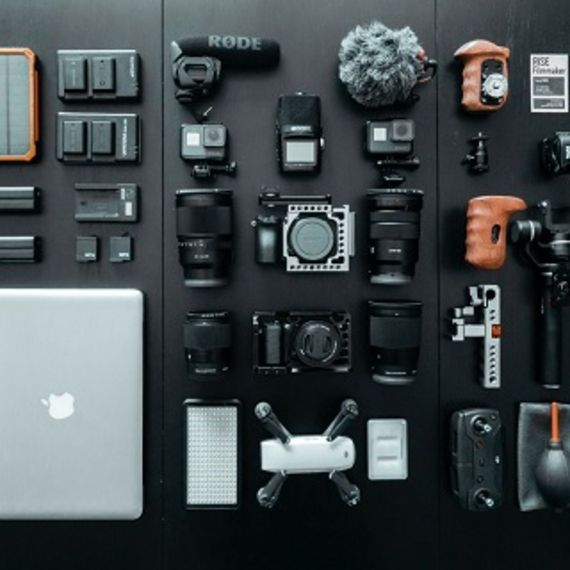
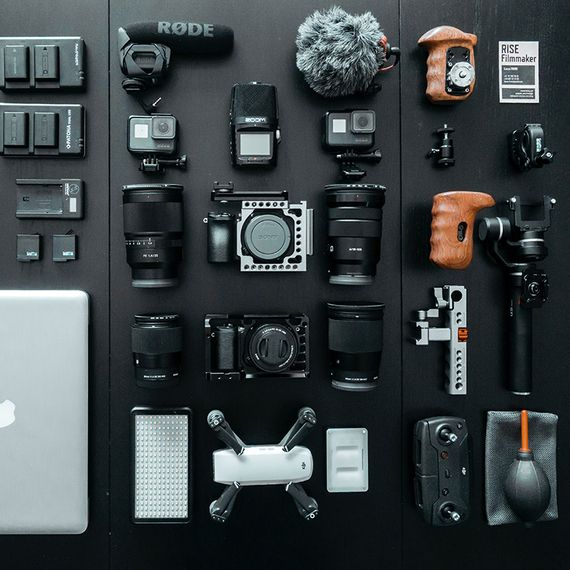
Image responsive ok pour 'design-voyageur'

diff --git a/index.html b/index.html
@@ -289,10 +289,52 @@
 				</div>
 				<div class="row tight-width-whitespace portfolio-row">
 					<div class="col-sm-6">
-						<a class="seo-focus-type3" href="#" data-lightbox="img/design-voyageur.jpg"
+						<a class="seo-focus-type3 portfolio-thumb" href="#" data-lightbox="img/design-voyageur.jpg"
 							data-gallery-id="gallery-1" data-caption="Création d'un site internet pour un voyageur"
-							data-frame="snapshot-lb"><img src="img/design-voyageur.jpg"
-								class="img-responsive portfolio-thumb" alt="Accès au portfolio des réalisations"></a>
+							data-frame="snapshot-lb">
+							
+
+							<picture>
+								<source class="img-responsive" 
+										type="image/webp" 
+										media="(max-width: 320px)"
+										srcset="img/design-voyageur-290w.webp">
+
+								<source class="img-responsive" 
+										type="image/webp"
+										media="(max-width: 375px)" 
+										srcset="img/design-voyageur-345w.webp">
+
+								<source class="img-responsive" 
+										type="image/webp" 
+										media="(max-width: 425px)"
+										srcset="img/design-voyageur-395w.webp">
+
+								<source class="img-responsive" 
+										type="image/webp" 
+										media="(max-width: 450px)"
+										srcset="img/design-voyageur-420w.webp">
+
+								<source class="img-responsive" 
+										type="image/webp" 
+										media="(max-width: 480px)"
+										srcset="img/design-voyageur-450w.webp">
+
+								<source class="img-responsive" 
+										type="image/webp" 
+										media="(max-width: 767px)"
+										srcset="img/design-voyageur-570w.webp">
+
+								<source class="img-responsive" 
+										type="image/webp" 
+										media="(min-width: 768px)"
+										srcset="img/design-voyageur-270w.webp">
+
+							
+							<img class="img-responsive" src="img/design-voyageur.jpg"
+								 alt="Accès au portfolio des réalisations">
+								</picture>
+								</a>
 						<h3 class="mg-md text-center seo-h3">
 							CR&Eacute;ATION D'UN SITE INTERNET POUR UN VOYAGEUR
 						</h3>
